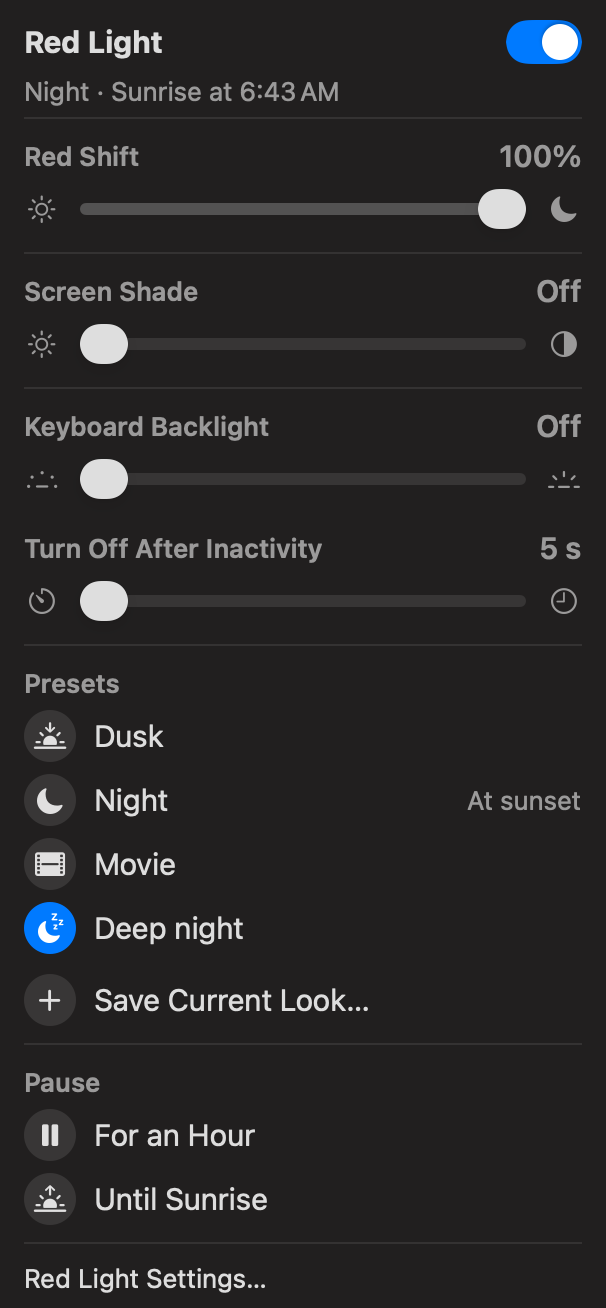
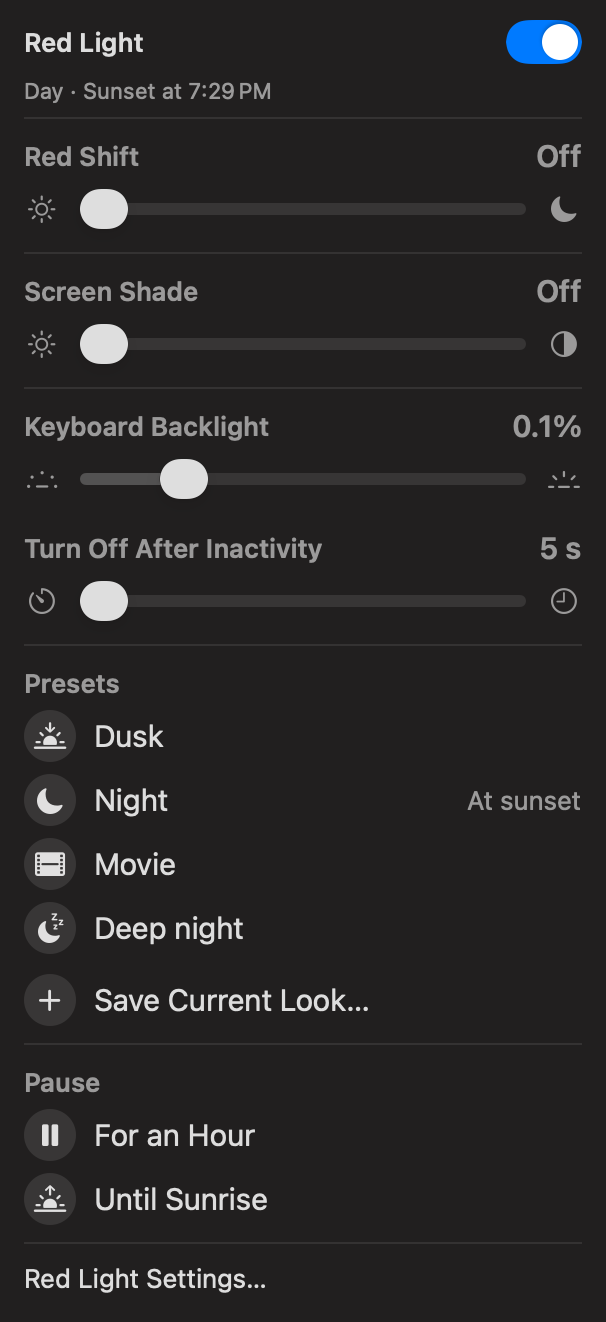
Panel title is .headline over .subheadline, and the last row gets Control Center's bottom margin

diff --git a/app/RedLightApp.swift b/app/RedLightApp.swift
@@ -396,10 +396,11 @@ extension Double { func rounded(toPlaces p: Int) -> Double { let m = pow(10.0, D
 // MARK: - Control Center design language (measured from the Battery panel at 2x)
 enum CC {
     static let side: CGFloat = 12
-    static let title = Font.system(size: 15, weight: .bold)
+    static let title = Font.system(size: 13, weight: .semibold)
     static let value = Font.system(size: 15, weight: .semibold)
     static let row = Font.system(size: 15)
     static let small = Font.system(size: 13)
+    static let subtitle = Font.system(size: 11)
     static let header = Font.system(size: 13, weight: .semibold)
     static let sep = Color.primary.opacity(0.10)
     static let circle = Color.primary.opacity(0.12)
@@ -425,7 +426,7 @@ struct TitleBlock<Trailing: View>: View {
     var body: some View {
         VStack(alignment: .leading, spacing: 0) {
             HStack { Text(title).font(CC.title); Spacer(); trailing() }.frame(height: 32).padding(.top, 5)
-            HStack { Text(subtitle).font(CC.small).foregroundStyle(.secondary); Spacer() }.frame(height: 17)
+            HStack { Text(subtitle).font(CC.subtitle).foregroundStyle(.secondary); Spacer() }.frame(height: 17)
             Line().padding(.top, 4.5)
         }
     }
@@ -521,7 +522,7 @@ struct TextRow: View {
 }
 struct SettingsRow: View {
     let text: String
-    var body: some View { HStack { Text(text).font(CC.small); Spacer() }.frame(height: 34).padding(.bottom, -2).contentShape(Rectangle()) }
+    var body: some View { HStack { Text(text).font(CC.small); Spacer() }.frame(height: 34).padding(.bottom, 5).contentShape(Rectangle()) }
 }
 /// The system switch, or — only while exporting a documentation image — an identical drawing of it.
 struct SwitchView: View {
